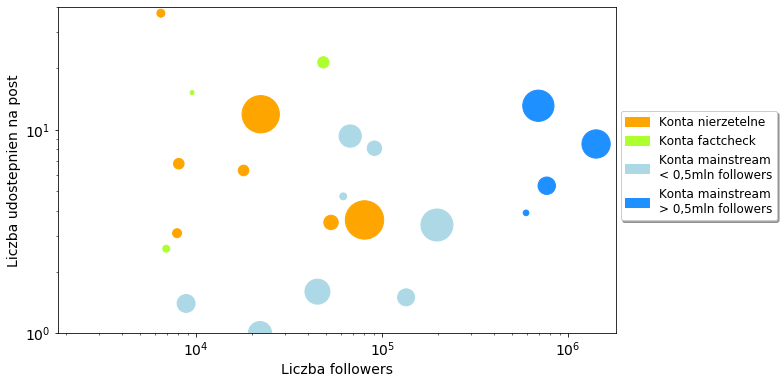
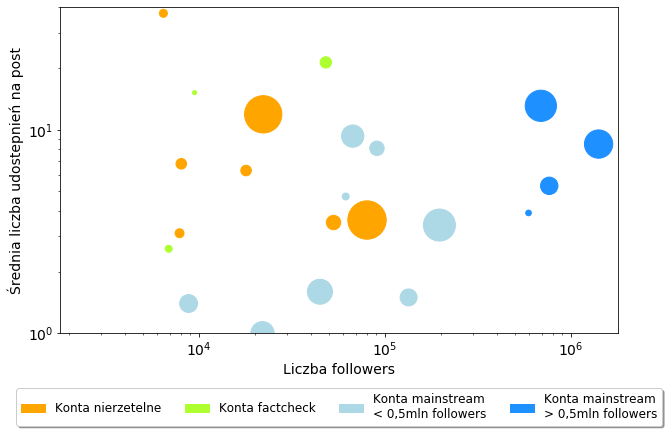
Section 10 podsumowanie

diff --git a/paper/tex/10-podsumowanie.tex b/paper/tex/10-podsumowanie.tex
@@ -1,2 +1,21 @@
 \newpage % Rozdziały zaczynamy od nowej strony.
 \section{Podsumowanie}
+W powyższej pracy przedstawiono problem jakim są nierzetelne informacje skupiając się na tych występujących w Internecie a w szczególności w mediach społecznościowych. Jako nierzetelne informacje przyjęto te, co do których istnieje wystarczająco wysokie prawdopodobieństwo, że nie zawierają one prawdy lub są intencjonalnie dezinformacyjne. Są one przeciwstawiane informacjom wiarygodnym, czyli takim co do których zakładamy, że są prawdziwe. Dokonywanie decyzji o prawdziwości lub nierzetelności informacji jest bardzo trudnym zadaniem. Należy bowiem przyjąć, że pewne fakty są bezsprzecznie prawdziwe oraz znaleźć źródła, które są uznane za wiarygodne. Taka decyzja jednak nigdy nie będzie całkowicie obiektywna i niepodważalna. 
+\par
+Z tego też powodu na początku pracy omówiono słownikowe definicje dezinformacji oraz jego synonimu fake news. Następnie omówiono problematykę nierzetelnych informacji skupiając się na ich występowaniu w mediach społecznościowych. Omówiono podłoże tego problemu, czynniki mu sprzyjające oraz konsekwencje jakie mogą wypływać z jego rozpowszechniania się. Wzięto pod uwagę również omówienie czynników psychologicznych i społecznych, które silnie oddziałują na użytkowników internetowych sieci społecznych. 
+\par 
+Następnie na podstawie dostępnej literatury zostały przedstawione i porównane najbardziej powszechne metody na klasyfikację informacji pod względem ich prawdziwości. Skupiono się na informacjach w formie tekstowej, ale do nich nie ograniczono. Metody podzielono na dwie główne kategorie: manualną oraz automatyczną. Metoda manualna to taka, która jest zależna od pracy człowieka i dzieli się pod względem jakości pojedynczej opinii i liczby zebranych opinii. Pierwszą z nich jest praca manualna ekspertów tematu, natomiast druga polega na zebraniu bardzo dużej liczby danych od większej liczby osób. Ta pierwsza metoda jest najczęściej wykorzystywana w serwisach specjalizujących się w ocenianiu informacji, natomiast drugą używa się jako metodę zebrania danych do wykonania klasyfikacji automatycznej. Tą z kolei można podzielić pod względem metody i\,typu danych jakie wykorzystuje do etykietowania. Można bowiem wykorzystać wiedzę semantyczną o treści informacji używając metod NLP, metod sieci wiedzy z wykorzystaniem np. Wikipedii lub skupić się nie na treści informacji ale na jej kontekście. Ostatnia metoda jest najczęściej używana do klasyfikacji informacji pochodzących z mediów społecznościowych dzięki ich charakterystyce interakcji twórców z użytkownikami. 
+\par
+W kolejnym rozdziale przedstawiono badania opinii publicznej na temat wiarygodności informacji w mediach. Przedstawiono wyniki najciekawszych badań obejmujących tematykę polskich mediów oraz polskich internautów. Następnie omówiono dokładniej istniejące badania podejmujące temat prób automatycznej klasyfikacji informacji związanych z Polską oraz Unią Europejską.  Na podstawie badań zespołu z Uniwersytetu w Oxfordzie okazuje się bowiem, że nawet 20\% badanych tweetów może pochodzić ze źródeł uznane jako nierzetelne.  Przedstawiono również badania wpływu botów na polskojęzyczną przestrzeń na platformie Twitter. 
+\par
+W drugiej części pracy przedstawiono i omówiono stworzony projekt mający na celu analizę danych pochodzących z platformy Twitter z podziałem tych danych na klasy pod względem ich rzetelności.  Ze względu na brak istniejącej klasyfikacji pojedynczych informacji, zdecydowano się  na podział całych kont. Takie podejście było też zastosowane w innych pracach zajmujących się podobnymi tematami. Aby uzyskać taką klasyfikację oparto się na kilku różnych źródłach, w głównej mierze na badaniach zespołu COMPROP z Oxfordu. Konta serwisów uznanych za nierzetelne przeciwstawiono kontom serwisów profesjonalnych i o dużej popularności liczonej w liczbie odsłon. Tą drugą klasę nazwano wykorzystując angielskie słowo mainstream. Dodatkowo również zbadano konta należące do serwisów specjalizujących się w sprawdzaniu prawdziwości informacji czyli tzw. factcheck. 
+\par
+Z przeprowadzonej analizy wyciągnięto wnioski dotyczące charakterystyk tych grup. Odkryto, że konta z największą liczbą odbiorców czyli followersów otrzymują średnio więcej udostępnień swoich postów ale nie jest to jednoznaczne. Największą popularność, w znaczeniu liczby udostępnień, posiadają posty publikowane przez konta typu factcheck, mimo że te mają stosunkowo mało followersów. Popularność tweetów zależy bardziej od konkretnego konta i nie ma odzwierciedlenia w popularności klasy do której należy. Chciano zbadać również relacje pomiędzy kontami oraz zewnętrznymi domenami które konta udostępniają. Okazuje się jednak, że udostępnienia informacji ograniczają się do udostępnień swojej grupy wydawniczej. Najbardziej obiecującą charakterystyką kont są użytkownicy którzy udostępniają ich posty. Mimo, że około połowa zebranych użytkowników udostępniła tylko dwa posty to istnieje duża grupa użytkowników, która udostępnia ich dużo więcej. Dodatkowo część użytkowników jest spolaryzowana na konkretny typ informacji. Najbardziej aktywnymi użytkownikami są ci udostępniający posty pochodzące z kont oznaczonych jako nierzetelne. Na podstawie udostępnień użytkowników można określić prawdopodobieństwo ich preferencji do jednej z klas.
+\par
+Ten fakt wykorzystano przy tworzeniu automatycznej klasyfikacji informacji pochodzących z Twittera. Swoje badania oparto na istniejącej pracy w której porównano dwie metody klasyfikacji danych pochodzących z platformy, Facebook która uzyskała bardzo wysokie wyniki precyzji klasyfikacji. Jako cel badań postawiono sprawdzenie precyzji klasyfikacji z wykorzystaniem kontekstu jakim są udostępnienia postów przez użytkowników. Dodatkowym celem było sprawdzenie jak duży musi być zbiór zawierający etykiety w stosunku do zbioru testowego aby otrzymać zadowalającą precyzję. Okazało się że wystarczy aby jedynie 10\% postów znajdywało się w zbiorze uczącym aby otrzymać precyzję na poziomie 90\%.  Takie wyniki uzyskano zarówno dla regresji logistycznej jak również dla drugiej metody jaką było przedstawienie danych w formie grafu, gdzie wierzchołkami są zarówno posty jak i użytkownicy.
+\par 
+Przeprowadzono również test sprawdzający jak dobra jest transmisja wiedzy o przynależności badanych kont do klas gdy ze zbioru uczącego wyłączymy część z nich. Te wyniki okazały się być niewiele lepsze od losowego zgadywania. Powodem tego prawdopodobnie jest fakt, że niektóre z kont nie miały wystarczająco wspólnych użytkowników z\,innymi z\,kont.
+\par
+Podsumowując treści przedstawione w pracy, przedstawiono i opisano problem nierzetelnych informacji skupiając się na tych występujących w mediach społecznościowych pod postacią postów. Przedstawiono powody występowania dezinformacji oraz metody dokonujące ich klasyfikacji. Następnie przeprowadzono badania na temat nierzetelnych informacji w polskojęzycznej strefie platformy Twitter na podstawie wybranych kont. Dokonano analizy porównawczej charakterystyk tej klasy kont, przeciwstawiając je do kont należących do profesjonalnych serwisów informacyjnych. Z analizy wynikało, że najbardziej obiecującą charakterystyką możliwą do klasyfikacji publikowanych przez badane konta informacji są dane o użytkownikach udostępniających posty. Na tej podstawie dokonano badania automatycznej klasyfikacji postów z wykorzystaniem dwóch różnych metod. Dla wystarczająco dużego zbioru uczącego otrzymano precyzję ponad 90\% dla obu algorytmów. Wynik ten prawdopodobnie mógłby być jeszcze lepszy, gdyby dysponowano informacją o większej ilości użytkowników. Nie było to jednak możliwe ze względu na ograniczenia techniczne źródła tych danych. 
+\par
+Widać więc, że udało się uzyskać bardzo obiecujące wyniki. Przeprowadzona klasyfikacja udowadnia, że możliwe jest etykietowanie treści na podstawie ich kontekstu jakim są udostępniający je użytkownicy. Przedstawiona praca skupia się na części problemu jakim są nierzetelne informacje w polskiej przestrzeni serwisów społecznościowych i pokazuje, że w tej dziedzinie istnieje obiecująca ścieżka rozwoju dla technik automatycznej klasyfikacji. Dodatkowo omówiono istniejące inicjatywy i przedstawiono własne badania które mogą być podstawą do dalszego rozwoju prac podejmujących temat nierzetelnych informacji. 

diff --git a/paper/tex/6-3-wybor-zrodla.tex b/paper/tex/6-3-wybor-zrodla.tex
@@ -1,6 +1,6 @@
 
 \subsection{Wybór platformy social media}
-Dwoma największymi mediami społecznościowymi w\,Polsce udostępniającymi funkcję dzielenia się informacjami tekstowymi przez użytkowników są Facebook oraz Twitter\,\cite{GemiusSerwisy2019}. Platformy te były już wykorzystywane w\,celu zbierania danych do badań, ponieważ są doskonałym źródłami, z\,których można uzyskać wiedzę na temat preferencji użytkowników. Między innymi z\,tych powodów postanowiono przyjrzeć się możliwościom jakie dają wystawione przez nie API, w\,celu uzyskania danych do badań przeprowadzanych w\,tej pracy.
+Dwoma największymi mediami społecznościowymi w\,Polsce udostępniającymi funkcję dzielenia się informacjami tekstowymi przez użytkowników są Facebook oraz Twitter\,\cite{GemiusInternet2019}. Platformy te były już wykorzystywane w\,celu zbierania danych do badań, ponieważ są doskonałym źródłami, z\,których można uzyskać wiedzę na temat preferencji użytkowników. Między innymi z\,tych powodów postanowiono przyjrzeć się możliwościom jakie dają wystawione przez nie API, w\,celu uzyskania danych do badań przeprowadzanych w\,tej pracy.
 
 \subsubsection{Facebook API}
 Czytając prace badawcze na temat fałszywych informacji z\,ostatnich lat wiele z\,nich wykorzystuje jako źródło do pobrania danych służących analizie tego zagadnienia, platformę Facebook oraz należące do niej API\footnote{\url{https://developers.facebook.com}}. Było ono wygodnym narzędziem pozwalającym na pobranie informacji o publicznym koncie takie jak listy osób, które je ‘lubią’ lub obserwują. Istniała również możliwość pobierania publicznych postów opublikowanych na dowolnym publicznym koncie wraz z\,podłączonymi komentarzami, reakcjami oraz statystykami udostępnień. Użycie tych funkcji było udostępnione dla każdego uwierzytelnionego użytkownika, tak jak dostępne są dla niego w\,przypadku korzystania z\,platformy lub aplikacji mobilnej. Dzięki darmowemu oraz wszechstronnemu dostępowi do informacji publikowanych jako publiczne przez użytkowników Facebook API było wygodnym narzędziem służących do celów zbierania danych o informacjach publikowanych w\,mediach społecznościowych oraz ich popularności wśród odbiorców. Dzięki temu powstało kilka prac podejmujących próbę rozpoznania wielkości problemu jakim są fałszywe informacje w\,mediach społecznościowych oraz szukających rozwiązania na ich automatyczne rozpoznawanie. 
@@ -28,39 +28,4 @@ Pobierz listę identyfikatorów retweeterów tweeta & GET statuses/ retweeters/i
 \end{tabular}
 \end{table}
 
-\newpage
-Dla ułatwienia pracy przy korzystaniu z\,Twitter API\footnote{\url{http://twitter4j.org}} użyto ogólnodostępną bibliotekę Twitter4J  stworzoną dla języka Java i\,objętą licencją Apache Licence 2.0. Biblioteka ta udostępnia klasy oraz metody wspomagające integrację nowej aplikacji z\,serwisem Twitter. Dzięki jej zaadoptowaniu w\,nowej aplikacji nie musiały znaleźć się bezpośrednie zapytania http co zwiększyło czytelność kodu. 
 
-\subsection{Słownik wyrażeń}
-Poniżej zostaną przedstawione wybrane słowa o szczególnym znaczeniu dla platformy Twitter. Większość z\,nich pochodzi z\,języka angielskiego lub jest neologizmami. Z\,tego powodu w\,tekście pracy będą używane również polskie synonimy tych słów. Dodatkowo ze względu na specyficzne ich znaczenie, zostanie przedstawiony ich opis.
-
-\begin{table}[!h] \label{tab:slowniktwitter} \centering
-\caption{Słownik domenowy portalu Twitter.}
-\begin{tabular} { | m{2cm} | m{4,5cm}| m{7cm} | } \hline
-Słowo & Używane synonimy & Opis \\  \hline \hline
-Konto & Użytkownik, osoba,
-  profil. Tutaj też: media, serwis, źródło. & Konto
-  znajdujące się na platformie tweeter, może należeć do prywatnego użytkownika
-  lub do serwisu internetowego. Zawiera informacje o sobie, swoje tweety oraz
-  retweety. \\ 
-\hline
-Follower & Subskrybent, śledzący. & Użytkownik który
-  wyraził chęć otrzymywania tweetów konta śledzonego na swojej głównej stronie
-  przeglądania. \\ 
-\hline
-Tweet & Post, status,
-  treść. & Krótka wiadomość
-  tekstowa i/lub zawierająca inną formę medialną wyrażająca informację lub
-  opinię użytkownika, który go publikuje. \\ 
-\hline
-Retweet & Udostępnienie,
-  \mbox{podanie dalej.} & Opublikowanie postu
-  stworzonego przez innego użytkownika na swoim koncie. Ma na celu przedstawienie
-  swojej opinii w\,stosunku do jego treści lub chęć rozpowszechnienia
-  udostępnianego tweeta. Używane jako czasownik oraz rzeczownik. \\ 
-\hline
-Retweeter & Udostępniający. & Użytkownik
-  który retweetuje tweet. \\
-\hline
-\end{tabular}
-\end{table}

diff --git a/paper/tex/8-7-wnioski-analizy.tex b/paper/tex/8-7-wnioski-analizy.tex
@@ -1,2 +1,9 @@
 \subsection{Wnioski z analizy}
-Celem przeprowadzonej analizy było zbadanie charakterystyk kont, treści przez nie publikowanych oraz ich odbiorców. W części badań skupiano się na właściwościach wszystkich kont w danej klasie aby przeprowadzić całościową analizę porównawczą charakterystyk przedstawianych klas. Porównywano trzy klasy: konta nierzetelne, mainstream oraz factcheck. Z powodu dużej różnicy w ilości odbiorców, nazywanych followersami, kont mainstream zdecydowano wyróżnić w śród tych kont dwa niezależne niepokrywające się podzbiory. Granicę ustalono na 0,5 mln followersów. Okazało się być to dobrym wyborem ponieważ piąta największa liczba followersów to 0,2 mln.  
+Celem przeprowadzonej analizy było zbadanie charakterystyk kont, treści przez nie publikowanych oraz ich odbiorców. W części badań skupiano się na właściwościach wszystkich kont w danej klasie aby przeprowadzić całościową analizę porównawczą charakterystyk przedstawianych klas. Porównywano trzy klasy: konta nierzetelne, mainstream oraz factcheck. Z powodu dużej różnicy w ilości tzw. followersów, czyli odbiorców kont mainstream zdecydowano wyróżnić w śród tych kont dwa niezależne niepokrywające się podzbiory. Granicę ustalono na 0,5 mln followersów. Okazało się być to dobrym wyborem ponieważ kolejna największa liczba followersów to 0,2 mln.  
+\par Różnicę w ilości odbiorców widać patrząc na średnią liczbę udostępnień postów przez użytkowników. Konta mainstream o dużej liczbie followersów posiadają średnio więcej udostępnień, niż te z mniejszą liczbą. Różnicę widać również w liczbie publikowanych nowych postów. Liczba postów oraz followersów niekoniecznie jednak wpływa bezpośrednio na liczbę udostępnień. Konta należące do serwisów factcheck mimo posiadania stosunkowo małej liczby followersów otrzymują średnio najwięcej udostępnień ze wszystkich grup.
+\par
+Zbadano również zachowania użytkowników udostępniających posty. Okazuje się, że prawie połowa zebranych użytkowników udostępniła tylko i wyłącznie jeden post. Najbardziej aktywnymi, pod względem liczby udostępnień, użytkownikami są użytkownicy udostępniający posty kont kategorii nierzetelne.
+\par
+Dodatkowo zbadano połączenia pomiędzy kontami, w formie wzajemnych udostępnień swoich postów. Chciano w ten sposób sprawdzić czy istnieją bezpośrednie lub niebezpośrednie zależności między nimi w utworzonych klasach lub pomiędzy nimi. Okazuje się jednak, że takie połączenia istnieją jedynie pomiędzy kontami należącymi do tego samego wydawcy. Oznacza to, że badane konta zazwyczaj nie udostępniają informacji pochodzących z innych źródeł. Największy procent oryginalnych treści posiadają konta z\,kategorii nierzetelne.  Zbadano również, jakie domeny są linkowane w postach badanych kont, i podobnie okazuje się, że konta linkują informacje jedynie z serwisów do których należą. 
+\par
+Po tej analizie widać, że najbardziej obiecującą właściwością charakteryzującą konta w poszczególnych klasach mogą być użytkownicy którzy udostępniają ich posty. Mimo, że połowa użytkowników udostępnia około 2 posty to istnieje  nadal niemała grupa osób która udostępnia ich bardzo dużo. Na tej podstawie można próbować klasyfikacji postów. Należy zobaczyć jak duża grupa osób jest spolaryzowana na konkretną klasą postów, oraz jak dużo osób udostępnia posty pochodzące z kont zaklasyfikowanych do różnych klas. Mając te informacje można potraktować użytkowników udostępniających posty jako charakterystykę kont. Można badać prawdopodobieństwo preferencji użytkowników lub posiadając wiedzę o użytkownikach przewidywać prawdopodobieństwo przynależności informacji do konkretnej klasy. 

diff --git a/paper/tex/5-3-dezinformacja-media.tex b/paper/tex/5-3-dezinformacja-media.tex
@@ -1,7 +1,7 @@
 
 \subsection{Informacja i\,dezinformacja w\,mediach społecznościowych}
 \label{istniejace-badania-twitter}
-Najbardziej popularnym i\,najczęściej używanym portalem społecznościowym w\,Polsce jest Facebook. Jest on drugą najczęściej odwiedzaną domeną zaraz po google.com. Prawie trzy czwarte polskich internautów, czyli 21 milionów Polaków jest jego użytkownikami a\,codziennie średnio ponad 7 milionów Polaków odwiedza ten portal\cite{GemiusInternet2019}. Drugim najbardziej popularnym portalem społecznościowym jest Instagram będący serwisem do publikowania zdjęć a\,na trzecim miejscu plasuje się Twitter z\,liczbą prawie 5 milionów polskich użytkowników\cite{GemiusSerwisy2019}. Mimo, że Twitter jest rzadziej używany przez ogół internautów jest ważną platformą dla polityków, działaczy społecznych oraz dziennikarzy\cite{gorwa2017computational}. Dzięki swojej formie mikroblogów jest wygodnym narzędziem do przekazania publiczności informacji, opinii lub komentarza w\,krótkiej formie jaką jest Tweet.
+Najbardziej popularnym i\,najczęściej używanym portalem społecznościowym w\,Polsce jest Facebook. Jest on drugą najczęściej odwiedzaną domeną zaraz po google.com. Prawie trzy czwarte polskich internautów, czyli 21 milionów Polaków jest jego użytkownikami a\,codziennie średnio ponad 7 milionów Polaków odwiedza ten portal\cite{GemiusInternet2019}. Drugim najbardziej popularnym portalem społecznościowym jest Instagram będący serwisem do publikowania zdjęć a\,na trzecim miejscu plasuje się Twitter z\,liczbą prawie 5 milionów polskich użytkowników. Mimo, że Twitter jest rzadziej używany przez ogół internautów jest ważną platformą dla polityków, działaczy społecznych oraz dziennikarzy\cite{gorwa2017computational}. Dzięki swojej formie mikroblogów jest wygodnym narzędziem do przekazania publiczności informacji, opinii lub komentarza w\,krótkiej formie jaką jest Tweet.
 \subsubsection{Badanie typów informacji na Twitterze}
 Przed wyborami do Parlamentu Europejskiego COMPROP przeprowadziło badania na temat typów informacji rozprzestrzenianych na platformach społecznościowych takich jak Twitter i\,Facebook\cite{marchal2019junk}. Pod uwagę wzięto siedem grup językowych w\,tym również polski. Dzięki odpowiednim hashtagom zebrano Tweety związane z\,wyborami a\,następnie wyodrębniono linki URL. Tak uzyskane źródła zakwalifikowano do pięciu typów: Profesjonalne portale informacyjne, profesjonalne źródła rządowe, śmieciowe portale, inne portale informacyjne oraz inne źródła. Dzięki temu można było zbadać które źródła mają największą popularność wśród użytkowników mediów społecznościowych. Okazało się, że w\,zebranym zbiorze Tweetów tylko 4\% zawiera w\,sobie link do źródła oznaczonego jako śmieciowe. Jednak w\,podzbiorze polskojęzycznym było to aż 20\% badanych Tweetów. Należy pamiętać, że nie brano pod uwagę kontekstu z\,jakim opublikowany był każdy Tweet, możliwym jest, że mógł zawierać sprostowanie lub niezgodę z\,zawartą w\,podlinkowanym artykule. Nie mniej oznacza to, że według powyższych badań co piąty polskojęzyczny Tweet zawierał link do nierzetelnego źródła.  
 \subsubsection{Rozprzestrzenianie dezinformacji na Twitterze}

diff --git a/paper/tex/9-7-wnioski-badan.tex b/paper/tex/9-7-wnioski-badan.tex
@@ -1,6 +1,8 @@
 \subsection{Wnioski z badań}
 Na podstawie wykonanych badań można jasno określić, że najlepszym sposobem do klasyfikacji tego typu danych okazała się regresja logistyczna. Uzyskane dzięki niej wyniki przewyższały wyniki algorytmu harmonicznego zarówno dla zbioru pełnego jak i\,dla zbioru intersekcji. Dodatkowo zbadano, że przy zbiorze pełnym wystarczy, aby znano klasyfikację jedynie dziesięciu procent badanych postów, aby z\,precyzją 90\% określić klasy pozostałych postów. 
 \par
-	Niestety jednak okazało się, że żaden z\,powyższych algorytmów nie spełnia dobrze zadania transmisji wiedzy w\,modelu, jeśliby odrzucić posty opublikowane przez konkretne konta do zbioru testowego. Nie jest to jednak wina wybranych algorytmów, ale ułożenia danych. Dla niektórych z\,kont klasyfikacja ich postów była dokonywana z\,prawie 100\% precyzją. Średni wynik zaniżały jednak inne konta, które nie miały wystarczająco wspólnych udostępniających użytkowników. 
-\par
 Dodatkowo warto zaznaczyć, że wszystkie powyżej opisane badania były robione kilkakrotnie dla różnej liczby pobranych postów rozpoczynając od 8 tysięcy postów. Przy zwiększaniu ilości danych nie zauważono znacznej poprawy wyników klasyfikacji dla wszystkich przedziałów podziału zbioru na uczący i\,testowy. Dlatego pozostano przy tweetach pobranych z\,okresu 20 dni. Po przeprowadzonej analizie badań można zauważyć, że wysoka precyzja utrzymuje się nawet dla 10\% danych w\,zbiorze uczącym, czyli wystarczy około 1200-1500 postów w\,zależności od zbioru.
+\par
+Niestety jednak okazało się, że żaden z\,powyższych algorytmów nie spełnia dobrze zadania transmisji wiedzy w\,modelu, jeśliby odrzucić posty opublikowane przez konkretne konta do zbioru testowego. Nie jest to jednak wina wybranych algorytmów, ale ułożenia danych. Dla niektórych z\,kont klasyfikacja ich postów była dokonywana z\,prawie 100\% precyzją. Średni wynik zaniżały jednak inne konta, które nie miały wystarczająco wspólnych udostępniających użytkowników. 
+\par 
+Nie otrzymano również tak wysokich wyników jakie udało się otrzymać w pracy Some like it hoax na podstawie której przetestowano wybrane algorytmy. Powód takiego zjawiska prawdopodobnie jest fakt, że mimo że w stworzonym w tej pracy badaniu liczba postów była taka sama, czyli 15,5 tys postów, to liczba zebranych użytkowników była 80 razy mniejsza. Miał na to wpływ fakt skorzystania z innego serwisu społecznościowego a co za tym idzie innego wyznacznika interakcji użytkownika z postem. Nie było jednak możliwe przeprowadzenie badań klasyfikacji danych polskojęzycznych pobranych z tego samego serwisu, ponieważ potrzebna funkcjonalność serwisu nie jest już dostępna. 

diff --git a/paper/tex/8-5-retweets.tex b/paper/tex/8-5-retweets.tex
@@ -29,14 +29,14 @@ FACTCHECK & 607 & 11020 & 18.2 \\
 \subsubsection{Zróżnicowanie popularności kont}
 Poniżej przedstawiono dwa wykresy omawiające w\,większych szczegółach charakterystykę udostępnień postów. Pierwszy z\,wykresów pokazuje średnią liczbę udostępnień oryginalnych postów dla najbardziej popularnych kont. Popularność konta oznacza tu liczbę udostępnień jakie otrzymują jego posty. Można też ją określić jako aktywność odbiorców. Jak widać na rysunku \ref{fig:retweets-per-tweet} popularność konta nie zależy od klasy do której należy i\,jest zróżnicowana w\,każdej klasie.
 \begin{figure}[!h]
-	\centering \includegraphics[width=0.95\linewidth]{img/results/retweetspertweet.png}
+	\centering \includegraphics[width=0.95\linewidth]{img/results/retweetspertweet3.png}
 	\caption{Wykres średniej liczby udostępnień oryginalnych tweetów dla najbardziej popularnych kont z\,podziałem na przynależność do klasy.} \label{fig:retweets-per-tweet}
 \end{figure}
 
 \subsubsection{Liczba followersów a\,popularność kont}
 Następnie chciano zbadać czy na popularność treści publikowanych przez konta wpływa liczba jego subskrybentów. W\,tym celu stworzono wykres dwuwymiarowy w\,którym na osi x podano liczbę followers w\,skali logarytmicznej. Natomiast na osi y zaznaczono średnią liczbę udostępnień jaką otrzymują posty. Dodatkowo wielkością punktu na wykresie oznaczono aktywność konta liczoną jako średnia liczba postów publikowanych w\,czasie dnia. Wszystkie punkty zostały również oznaczone odpowiednim kolorem, w\,zależności, do której klasy należą. Zrezygnowano z\,nadania im nazw kont ze względu na czytelność wykresu, zwłaszcza, że w\,przypadku tego badania nie ma to większego znaczenia. 
 \begin{figure}[!h]
-	\centering \includegraphics[width=0.95\linewidth]{img/results/retweetsvsfollowers.png}
+	\centering \includegraphics[width=0.95\linewidth]{img/results/retweetsvsfollowers2.png}
 	\caption{Średnia liczba udostępnień tweeta a\,liczba followersów dla kont z\,podziałem na klasy.} \label{fig:retweets-vs-followers}
 \end{figure}
 \par

diff --git a/paper/tex/3-1-2-istniejace-rozwiazania.tex b/paper/tex/3-1-2-istniejace-rozwiazania.tex
@@ -21,7 +21,7 @@ Rozważania nad używaniem metod przetwarzania języka naturalnego wywodzi się 
 \par
 Także w\,Polsce powstało badanie mające na celu sprawdzenia możliwości wykorzystania wiedzy psycholingwistycznej w\,celu rozpoznawania zdań zawierających fałsz\cite{wawer2019fact}. W\,tym celu zebrano 400 stwierdzeń od 200 uczestników. Jednak aby wykonać to badanie zdania zebrane w\,języku polskim zostały przetłumaczone na język angielski używając Google Translate. Mimo to dla zdań o silnie spolaryzowanych tematach otrzymano lepsze wyniki niż w\,przypadku testowania poprzez factchecking z\,wykorzystaniem portalu Wikipedia. 
 
-\subsubsection{Knowladge-based}
+\subsubsection{Knowledge-based}
 Aby automatycznie wykrywać, czy informacja jest prawdziwa czy też nie można zastosować dostępne ustrukturalizowane bazy wiedzy takie jak DBpedia , która pobiera dane z\,Wikipedii tworząc sieć semantyczną. Jej celem jest uporządkowanie wiedzy, jaka istnieje w\,Internecie w\,formie grafu wiedzy.  Takie podejście sprawdziło się przy sprawdzaniu krótkich twierdzeń na temat historii, geografii czy rozrywki\cite{ciampaglia2015computational}. Wykorzystano tam zależność między bliskością zagadnień w\,grafie wskazujących na prawdziwość zdania, w\,którym występują.
 \par 
 Wizualizację takiej metody przedstawiono na rysunku \ref{fig:barackObama} gdzie bazując na informacjach z\,Wikipedii starano się ustalić czy zdanie "Barack Obama jest muzułmaninem" jest prawdziwe czy fałszywe. Po lewej znajduje się informacja o postaci pobrana bezpośrednio z\,Wikipedii a\,po prawej ścieżka jaką przeszedł algorytm aby połączyć ze sobą dwa pojęcia: Barack Obama oraz islam. Liczby w\,nawiasach oznaczają ilość połączeń jaki posiada dana strona. Im wyższa to liczba tym niższą daje wartość do obliczenia końcowej wartości prawdopodobieństwa prawdy w\,badanym zdaniu. 

diff --git a/paper/tex/6-4-slownik-wyrazen.tex b/paper/tex/6-4-slownik-wyrazen.tex
@@ -1,0 +1,33 @@
+\subsection{Słownik wyrażeń}
+Poniżej zostaną przedstawione wybrane słowa o szczególnym znaczeniu dla platformy Twitter. Większość z\,nich pochodzi z\,języka angielskiego lub jest neologizmami. Z\,tego powodu w\,tekście pracy będą używane również polskie synonimy tych słów. Dodatkowo ze względu na specyficzne ich znaczenie, zostanie przedstawiony ich opis.
+
+\begin{table}[!h] \label{tab:slowniktwitter} \centering
+\caption{Słownik domenowy portalu Twitter.}
+\begin{tabular} { | m{2cm} | m{4,5cm}| m{7cm} | } \hline
+Słowo & Używane synonimy & Opis \\  \hline \hline
+Konto & Użytkownik, osoba,
+  profil. Tutaj też: media, serwis, źródło. & Konto
+  znajdujące się na platformie tweeter, może należeć do prywatnego użytkownika
+  lub do serwisu internetowego. Zawiera informacje o sobie, swoje tweety oraz
+  retweety. \\ 
+\hline
+Follower & Subskrybent, śledzący. & Użytkownik który
+  wyraził chęć otrzymywania tweetów konta śledzonego na swojej głównej stronie
+  przeglądania. \\ 
+\hline
+Tweet & Post, status,
+  treść. & Krótka wiadomość
+  tekstowa i/lub zawierająca inną formę medialną wyrażająca informację lub
+  opinię użytkownika, który go publikuje. \\ 
+\hline
+Retweet & Udostępnienie,
+  \mbox{podanie dalej.} & Opublikowanie postu
+  stworzonego przez innego użytkownika na swoim koncie. Ma na celu przedstawienie
+  swojej opinii w\,stosunku do jego treści lub chęć rozpowszechnienia
+  udostępnianego tweeta. Używane jako czasownik oraz rzeczownik. \\ 
+\hline
+Retweeter & Udostępniający. & Użytkownik
+  który retweetuje tweet. \\
+\hline
+\end{tabular}
+\end{table}

diff --git a/paper/tex/6-5-java-opis.tex b/paper/tex/6-5-java-opis.tex
@@ -1,0 +1,6 @@
+\subsection{Opis implementacji pobrania danych}
+Aby dokonać pobrania danych stworzono system informatyczny dedykowany do tego zadania. Użyto w tym celu języka Java z zastosowaniem framework Spring Boot. Podjęto taka decyzje ponieważ jest to język dostosowany do zadania jakim jest wysyłanie zapytań do zewnętrznego api oraz zapisywanie danych do baz danych oraz jest dobrze znany autorowi.  
+\par
+Dla ułatwienia pracy przy korzystaniu z\,Twitter API\footnote{\url{http://twitter4j.org}} użyto ogólnodostępną bibliotekę Twitter4J  stworzoną dla języka Java i\,objętą licencją Apache Licence 2.0. Biblioteka ta udostępnia klasy oraz metody wspomagające integrację nowej aplikacji z\,serwisem Twitter. Dzięki jej zaadoptowaniu w\,nowej aplikacji nie musiały znaleźć się bezpośrednie zapytania http co zwiększyło czytelność kodu.
+\par
+Zebrane dane zapisywano do lokalnej bazy danych PostgreSQL. Jest to jedna z najpopularniejszych darmowych relacyjnychbaz danych. 

diff --git a/paper/tex/tex-example/1-wstep.tex b/paper/tex/tex-example/1-wstep.tex
@@ -20,3 +20,13 @@ $$\forall\ i\in I\ ,\ u\in U\ \ \ \exists\ x_{iu}=f\left(i,u\right)$$
 $$f\left(i,u\right)\ =\ 1,gdy użytkownik u udostępnił post i  \\       0,gdy użytkownik u nie udostępnił postu i $$
 
 
+
+że istnieje jeszcze duża potrzeba i możliwości w temacie badania i wykrywania nierzetelnych informacji. Informacje rozprzestrzeniają się bardzo szybko dzięki użyciu mediów społecznościowych. Przedstawiona w tej pracy metoda, mimo stosunkowo wysokich wyników, nie jest jednak możliwa do użycia w realnym środowisku. Pierwszą przeszkodą jaką należało by pokonać jest dostęp do danych który nie był by tak ograniczony. 
+
+nie wyczerpuje tematu ale daje doskonaly fundament do kolejnych prac.. udalo sie udowodnic ze to jest obiecujaca sciezka aby dalej ta sciezke formatowac. 
+
+przeczytac tytuly czy czy nie ma literowek.
+  techniczny opis analizy danych 
+
+rozmowa z recenzentem na teams bedzie wazna.  Dominik Ruszko. poprosic o rozmowe online. 
+

diff --git a/paper/main.tex b/paper/main.tex
@@ -87,6 +87,9 @@
 \input{tex/6-1-projekt}
 \input{tex/6-2-wybor-danych.tex}
 \input{tex/6-3-wybor-zrodla}
+\input{tex/6-4-slownik-wyrazen}
+\input{tex/6-5-java-opis}
+\input{tex/6-6-python-opis}
 \input{tex/7-1-dostepnosc-danych}
 \input{tex/7-2-5-dane-twitter}
 \input{tex/8-1-analiza-danych}
